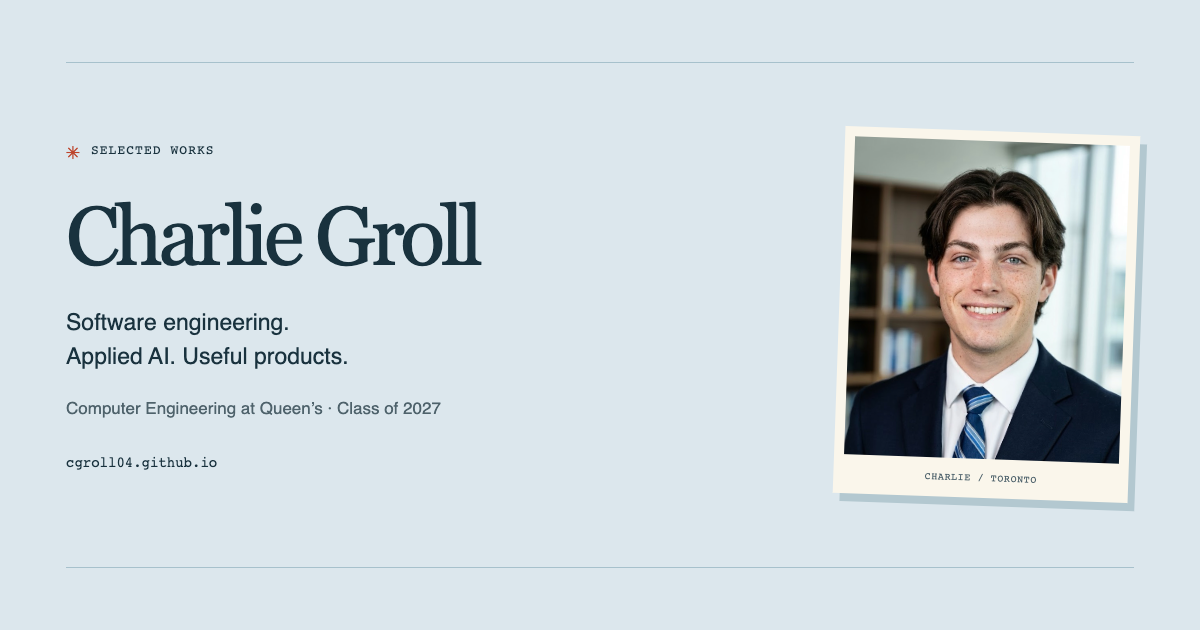
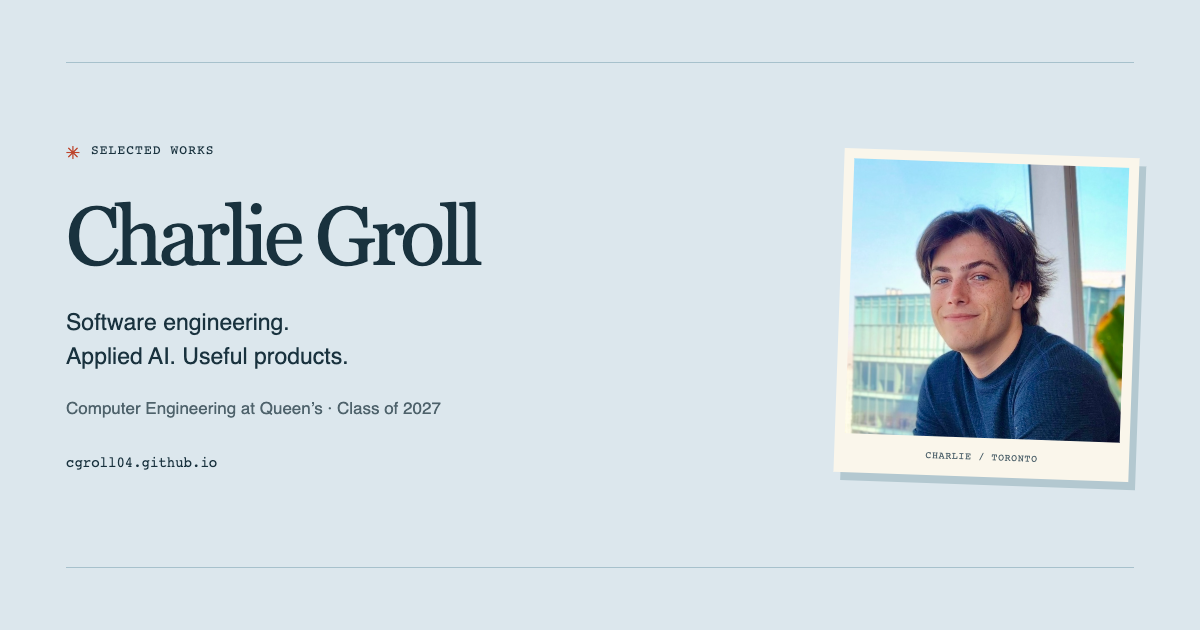
Refresh sharing preview with current portrait

Changed region(s): [[0.6783, 0.181, 0.9558, 0.8143]]

diff --git a/index.html b/index.html
@@ -11,14 +11,14 @@
   <meta property="og:site_name" content="Charlie Groll">
   <meta property="og:title" content="Charlie Groll — Software Engineering &amp; Applied AI">
   <meta property="og:description" content="Computer Engineering at Queen’s. Applied AI at IBM Consulting. Co-founder and sole iOS developer of SweetSpots. Available May 2027.">
-  <meta property="og:image" content="https://cgroll04.github.io/assets/social-preview.png">
+  <meta property="og:image" content="https://cgroll04.github.io/assets/social-preview-2026-10.png">
   <meta property="og:image:width" content="1200">
   <meta property="og:image:height" content="630">
   <meta property="og:image:alt" content="Charlie Groll — Software engineering, applied AI and products. Queen’s University, Class of 2027.">
   <meta name="twitter:card" content="summary_large_image">
   <meta name="twitter:title" content="Charlie Groll — Software Engineering &amp; Applied AI">
   <meta name="twitter:description" content="Selected work, experience and résumés. Available May 2027.">
-  <meta name="twitter:image" content="https://cgroll04.github.io/assets/social-preview.png">
+  <meta name="twitter:image" content="https://cgroll04.github.io/assets/social-preview-2026-10.png">
   <title>Charlie Groll — Selected Works</title>
   <link rel="icon" type="image/svg+xml" href="favicon.svg">
   <link rel="stylesheet" href="styles.css">
